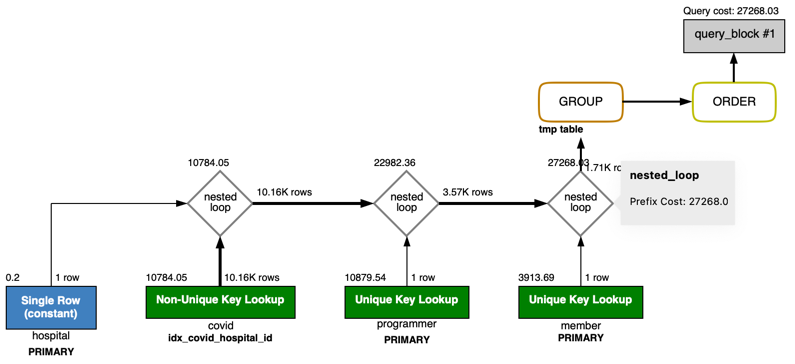
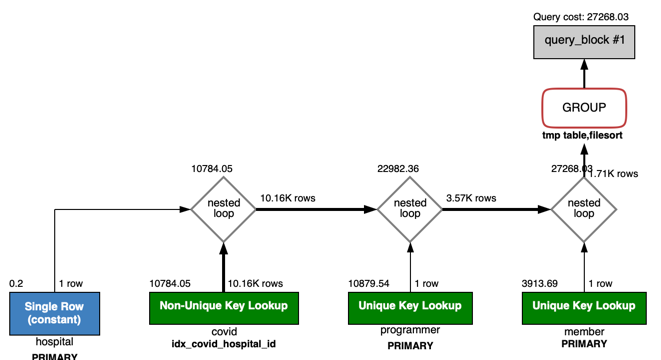
docs: order by NULL 삭제

Changed region(s): [[0.0, 0.0, 0.9985, 1.0], [0.8775, 0.6417, 0.9077, 0.7028], [0.6051, 0.6417, 0.6354, 0.7028]]

diff --git a/README.md b/README.md
@@ -549,8 +549,7 @@ default ✓ [======================================] 00/12 VUs  41m0s
           ON programmer.id = covid.id 
   INNER JOIN (SELECT id FROM subway.hospital WHERE id = 9) as hospital 
           ON hospital.id = covid.hospital_id 
-    GROUP BY covid.stay 
-    ORDER BY NULL;
+    GROUP BY covid.stay;
   ```
   ![img_12.png](img_12.png)
 
@@ -565,10 +564,9 @@ default ✓ [======================================] 00/12 VUs  41m0s
           ON covid.programmer_id  = programmer.id
   INNER JOIN (SELECT id, age FROM subway.member WHERE age BETWEEN 30 AND 39) as member
           ON covid.member_id = member.id
-    GROUP BY programmer.exercise
-    ORDER BY NULL;
+    GROUP BY programmer.exercise;
   ```
-  ![img_14.png](img_14.png)
+  ![img_13.png](img_13.png)
 ---
 ### 추가 미션
 1. 인덱스 적용해보기 실습을 진행해본 과정을 공유해주세요
